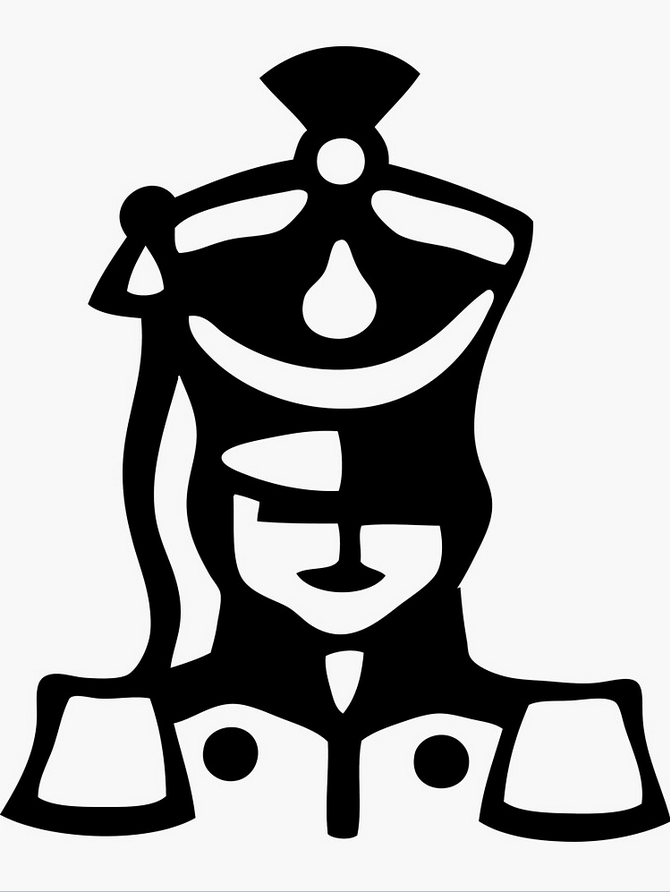
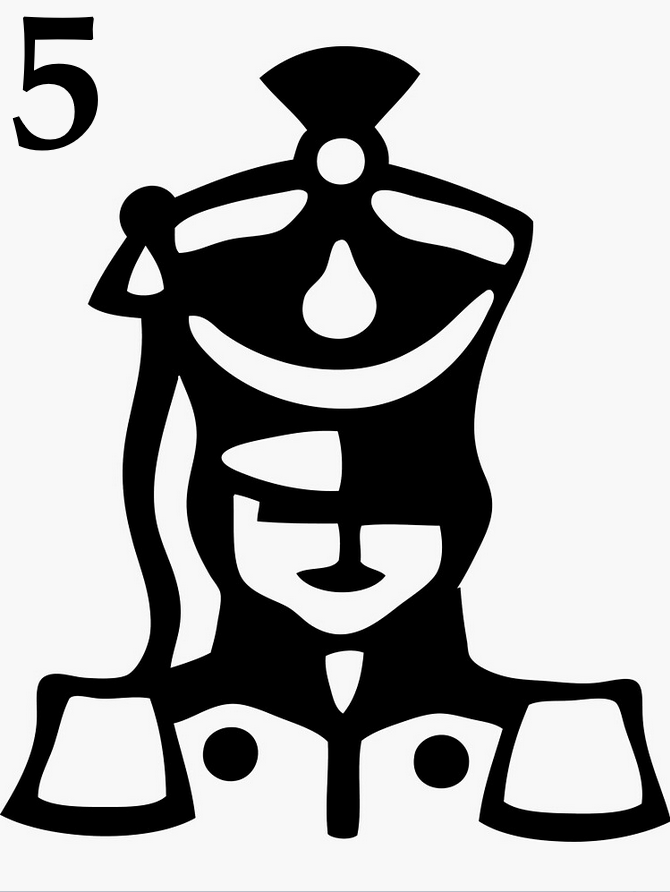
Added strength numbers to unit art

Changed region(s): [[0.0, 0.0, 0.1493, 0.1816]]

diff --git a/core/src/ui/StrategoGame.java b/core/src/ui/StrategoGame.java
@@ -6,8 +6,10 @@ import com.badlogic.gdx.graphics.GL20;
 import com.badlogic.gdx.graphics.Texture;
 import com.badlogic.gdx.graphics.g2d.Sprite;
 import com.badlogic.gdx.graphics.g2d.SpriteBatch;
+import com.badlogic.gdx.scenes.scene2d.InputEvent;
 import com.badlogic.gdx.scenes.scene2d.Stage;
 import com.badlogic.gdx.scenes.scene2d.utils.DragAndDrop;
+import com.badlogic.gdx.scenes.scene2d.utils.DragListener;
 import com.badlogic.gdx.utils.ScreenUtils;
 
 import com.badlogic.gdx.Gdx;
@@ -85,8 +87,7 @@ public class StrategoGame extends ApplicationAdapter {
 				p.setPosition(i * squareHeight, j * squareWidth);
 				p.setSize(squareWidth, squareHeight);
 				p.setZIndex(2);
-				p.setName(Integer.toString(i) + Integer.toString(j));
-				System.out.println("Name = " + p.getName() + "     coordinates = " + p.getX() + ", " + p.getY() + "     Z-level = " + p.getZIndex());
+//				System.out.println("Name = " + p.getName() + "     coordinates = " + p.getX() + ", " + p.getY() + "     Z-level = " + p.getZIndex());
 			}
 		}
 	}
